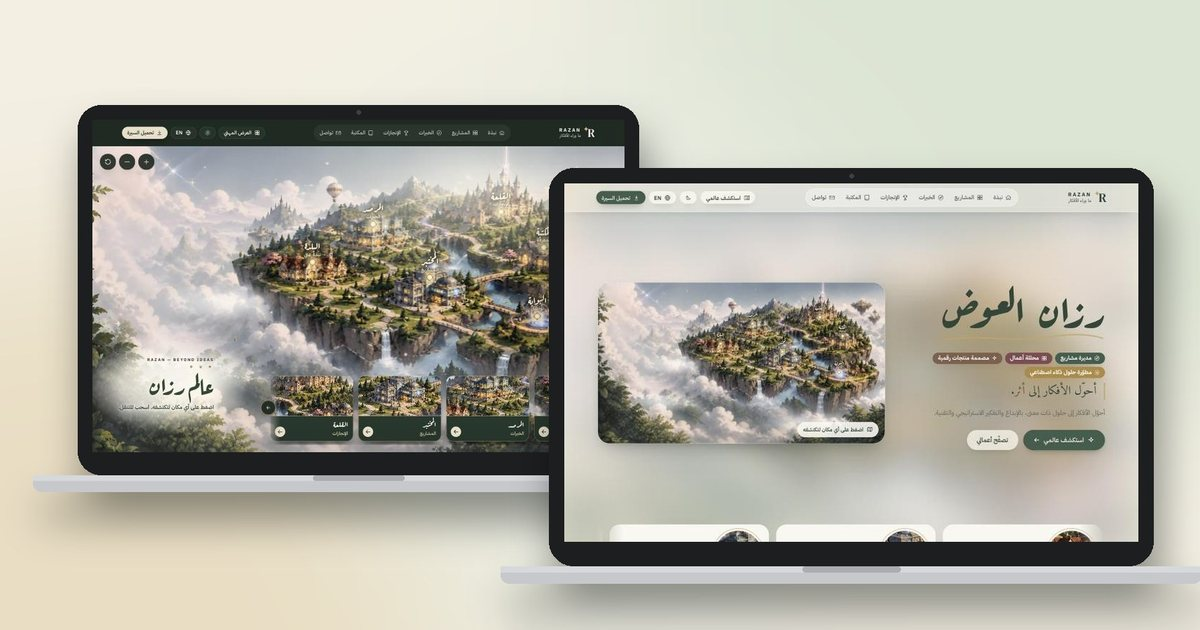
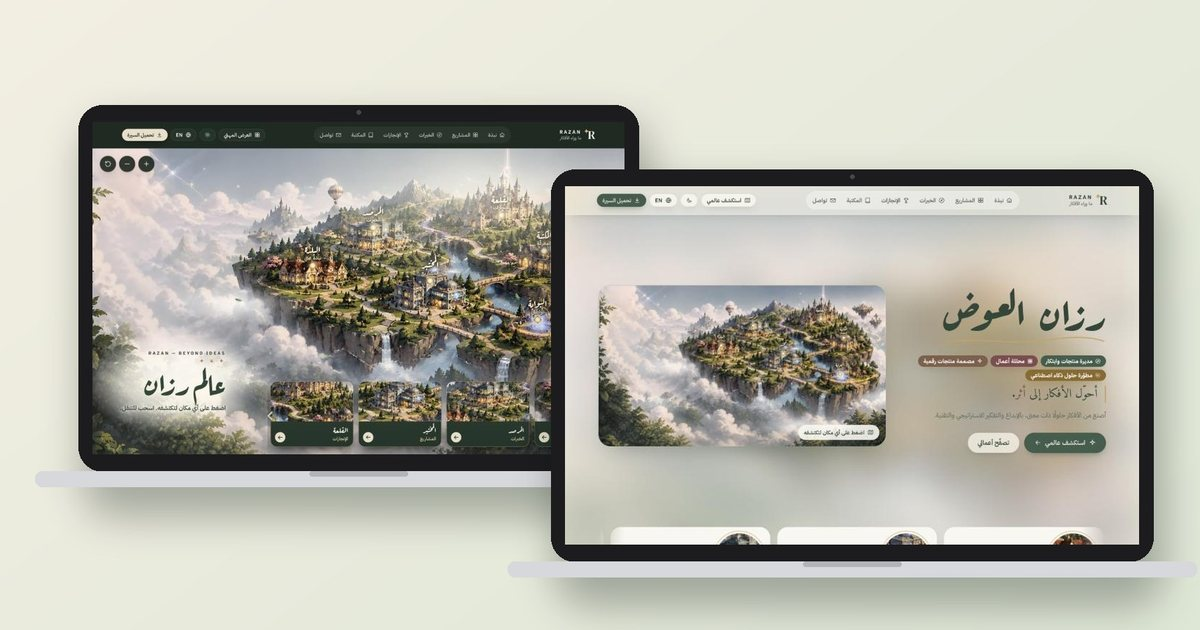
README: new features and fresh screenshots (map at night, site by day, new title); hero pill shows the new title

diff --git a/assets/js/intro.js b/assets/js/intro.js
@@ -3,7 +3,7 @@
 (function () {
   const A = window.App, C = window.CONTENT; if (!A) return;
   const t = (o) => A.t(o), esc = A.esc, ic = A.icon, ar = () => A.lang === "ar";
-  const ROLES = { ar: ["مديرة مشاريع", "محللة أعمال", "مصممة منتجات رقمية", "مطوّرة حلول ذكاء اصطناعي"], en: ["Project Manager", "Business Analyst", "Digital Product Designer", "AI Solutions Developer"] };
+  const ROLES = { ar: ["مديرة منتجات وابتكار", "محللة أعمال", "مصممة منتجات رقمية", "مطوّرة حلول ذكاء اصطناعي"], en: ["Product & Innovation Manager", "Business Analyst", "Digital Product Designer", "AI Solutions Developer"] };
   const ROLE_IC = ["compass", "grid", "sparkle", "gear"];
   const PLACES = ["about", "projects", "experience", "achievements", "library", "contact"];
   const pic = (z, zoom) => window.RWArt.paint([z.pos[0], z.pos[1] + 70], zoom);

diff --git a/index.html b/index.html
@@ -52,7 +52,7 @@
 <script src="assets/js/common.js?v=76"></script>
 <script src="assets/js/world-art.js?v=65"></script>
 <script src="assets/js/home.js?v=77"></script>
-<script src="assets/js/intro.js?v=37"></script>
+<script src="assets/js/intro.js?v=79"></script>
 <script src="assets/js/looks.js?v=68"></script>
 </body>
 </html>

diff --git a/README.md b/README.md
@@ -16,18 +16,26 @@
 
 ## عن الموقع
 
-هذا ملفي الشخصي: مديرة مشاريع ومحللة أعمال ومصممة منتجات رقمية ومطوّرة حلول ذكاء اصطناعي. الموقع واجهتان مترابطتان لنفس المحتوى، كل واحدة لقارئ مختلف.
+هذا ملفي الشخصي: **مديرة منتجات وابتكار** — أولّد الأفكار، وأصممها، وأقودها لين تصير منتجًا أو مشروعًا له أثر. ومعها: محللة أعمال، ومصممة منتجات رقمية، ومطوّرة حلول ذكاء اصطناعي. الموقع واجهتان مترابطتان لنفس المحتوى، كل واحدة لقارئ مختلف.
 
 ## المميزات
 
 - **خريطة تفاعلية** — جزيرة طائرة مرسومة، كل مبنى فيها قسم، وتقترب الكاميرا منه بضغطة.
-- **عالم حيّ** — طبقات بعمق، ونهر يجري، وأسماك تقفز، وأوراق خضراء تطير.
+- **عالم حيّ** — طبقات بعمق، ونهر يجري، وأسماك تقفز، وأوراق خضراء تطير، وشهاب يعبر السماء ويختفي خلف الغيوم.
+- **تصغير طبيعي** — تبعدين عن الخريطة لين تبان الجزيرة كاملة، وأطرافها تذوب في امتداد من سمائها وغيومها بلا إطار. وزر الإرجاع يرجع للمنظر الأول، وضغطة ثانية تعرض الجزيرة كاملة.
 - **عرض مهني سريع** — نفس المحتوى بترتيب واضح لمن يبغى المعلومة مباشرة.
-- **دراسات حالة للمشاريع** — التحدي، والدور، والمنهج، والحل، والنتيجة، مع الروابط والمواد.
-- **سيرة ذاتية تلقائية** — تُبنى من نفس المحتوى وتتحدّث معه.
+- **دراسات حالة للمشاريع** — التحدي، والدور، والمنهج، والحل، و**نتائج بأرقام حقيقية**، مع الروابط والمواد (مواقع، تطبيقات، عروض وملفات PDF).
+- **لقطات من كل مشروع** — شاشات حقيقية من المواقع والتطبيقات، تكبر بضغطة.
+- **سيرة ذاتية تلقائية** — تُبنى من نفس المحتوى، و**تتحمّل PDF بضغطة وحدة** (عربي أو إنجليزي) بنص حقيقي تقرأه أنظمة التوظيف (ATS)، ويُعاد بناؤها مع كل نشر.
+- **كلمات ممن عرفوني** — من عمل معي يترك كلمته عبر نموذج، وما يظهر في الموقع إلا بعد اعتمادي، وتطفو التعليقات مثل جريان النهر.
 - **عربي وإنجليزي** — مع اتجاه الكتابة الصحيح لكل لغة.
 - **وضع فاتح وغامق** — والخريطة تبقى نهارًا في الوضعين.
-- **محرر محتوى محلي** — أعدّل النصوص والصور والأيقونات بدون ما ألمس الكود.
+- **محرر محتوى محلي** — أعدّل النصوص والصور والأيقونات بدون ما ألمس الكود، و:
+  - **ينشر مباشرة على الموقع** بضغطة.
+  - **يترجم تلقائيًا** بين العربي والإنجليزي ليبقى النص متطابقًا.
+  - **يقترح تصحيحات** تحت النصوص الطويلة.
+  - **يضبط الصورة في البطاقة**: تعبئة أو صورة كاملة، وحجم، والجزء الظاهر.
+- **جاهز للبحث والمشاركة** — معاينة للرابط بصورة ووصف، وخريطة موقع لقوقل، وصفحة ٤٠٤ بتصميم الموقع.
 
 ## لقطات الشاشة
 
@@ -55,6 +63,8 @@
 - **HTML وCSS وJavaScript** خالصة — بدون أي خطوة بناء.
 - **رسومات الخريطة** مقسّمة إلى طبقات ومكبّرة بدقة عالية، عشان تبقى حادّة عند التقريب.
 - **كل النصوص** في `assets/js/content.js`، ومحرر محلي (`admin.html`) يعدّلها.
+- **تشغيل المحرر:** ضغطتين على `تشغيل المحرر.command` — يفتح المحرر (`tools/studio.py`) وينشر ويترجم.
+- **ملفات السيرة PDF:** `tools/cv_pdf.py` يحوّل صفحة السيرة إلى PDF بمحرك WebKit في الماك.
 - **التشغيل محليًا:** `python3 -m http.server 5173` ← http://localhost:5173
 - **النشر** تلقائي على GitHub Pages مع كل دفع (push) إلى فرع `main`.
 
@@ -79,18 +89,24 @@ My portfolio as two connected interfaces over the same content.
 ## Features
 
 - **Explorer World** — a painted floating island where each building is a section (Town → About, Observatory → Experience, Lab → Projects, Castle → Achievements, Library → Knowledge, Gateway → Contact). Click a building to fly to it.
-- **A living map** — layered parallax art, a flowing river, leaping fish, drifting leaves.
+- **A living map** — layered parallax art, a flowing river, leaping fish, drifting leaves, and a shooting star that slips behind the clouds.
+- **Natural zoom-out** — pull back until the whole island shows; its edges melt into its own sky and clouds, no frame. Reset returns to the opening view; press again for the whole island.
 - **Professional View** — the same content, fast and clear.
-- **Case studies** — challenge, role, approach, solution, outcome, links and materials.
-- **Auto-generated CV** built from the same content.
+- **Case studies** — challenge, role, approach, solution, **outcomes with real figures**, links and materials.
+- **Screens from every project** — real screenshots of the sites and apps, enlarged with a click.
+- **Auto-generated CV** built from the same content — **one-click PDF download** (Arabic or English) with real, ATS-readable text, rebuilt on every publish.
+- **Words from people I’ve worked with** — left through a form, shown only after I approve them, floating like the river.
 - **Arabic / English** and **light / dark**.
-- **Local content editor** for text, images and icons.
+- **Local content editor** for text, images and icons — publishes straight to the live site, auto-translates Arabic ↔ English, suggests fixes under long texts, and frames each picture (fill / whole, zoom, focus point).
+- **Search & share ready** — link previews, a sitemap and a custom 404 page.
 
 ## Technologies
 
 - Plain HTML, CSS and JavaScript — no build step.
 - Painted map art layered and upscaled for sharp zoom.
 - All text lives in `assets/js/content.js`; a local editor (`admin.html`) edits it.
+- Edit: double-click `تشغيل المحرر.command` — opens the editor studio (`tools/studio.py`) that publishes and translates.
+- CV PDFs: `tools/cv_pdf.py` renders the CV page with macOS WebKit.
 - Run locally: `python3 -m http.server 5173` → http://localhost:5173
 - Deploys to GitHub Pages on every push to `main`.
 
